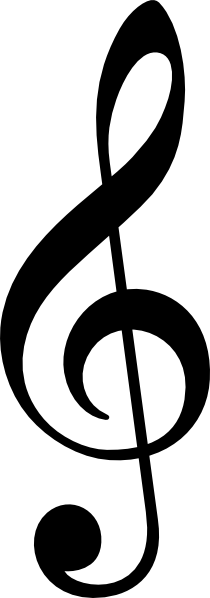
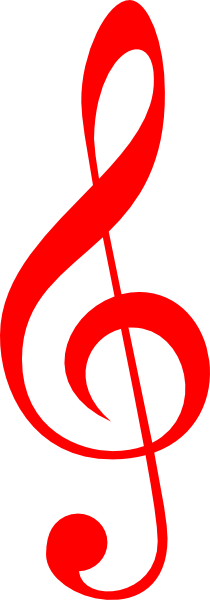
Style pentagram section

diff --git a/src/App.css b/src/App.css
@@ -30,8 +30,16 @@ section#Pentagram {
   align-items:center;
   justify-content:center;
   height:120px;
-  background-image:url("./images/pentagram.png");
-  background-position-y:30%;
+  /*background-image:url("./images/pentagram.png");
+  background-position-y:30%;*/
+  background: linear-gradient(
+    to bottom,
+    rgba(0,0,0,0),
+    rgba(0,0,0,0) 70%,
+    #c20000 30%,
+    #c20000
+  );
+  background-size: 100% 24px;
 }
 
 #clef {
@@ -42,6 +50,7 @@ section#Pentagram {
   background-repeat: no-repeat;
   left: 28vw;
   margin-right: -8vw;
+  filter:hue-rotate(-15deg);
 }
 
 /* BUTTONS */
@@ -52,11 +61,12 @@ section#Pentagram {
 }
 
 .button {
-  width:50px;
-  height:50px;
+  width:45px;
+  height:45px;
   background-repeat:no-repeat;
   background-size:100% 100%;
   transition: all .07s ease;
+  margin-top:0.8rem;
 }
 
 kbd {
@@ -65,7 +75,7 @@ kbd {
 }
 
 #c-pad > .button {
-  margin:0 0.5rem 0 0.5rem;
+  margin:0.8rem 0.8rem 0 0.8rem;
 }
 
 #up {
@@ -85,8 +95,8 @@ kbd {
 }
 
 #a {
-  width:60px;
-  height:60px;
+  width:55px;
+  height:55px;
   background-image:url("./images/Button-A.png");
 }
 
